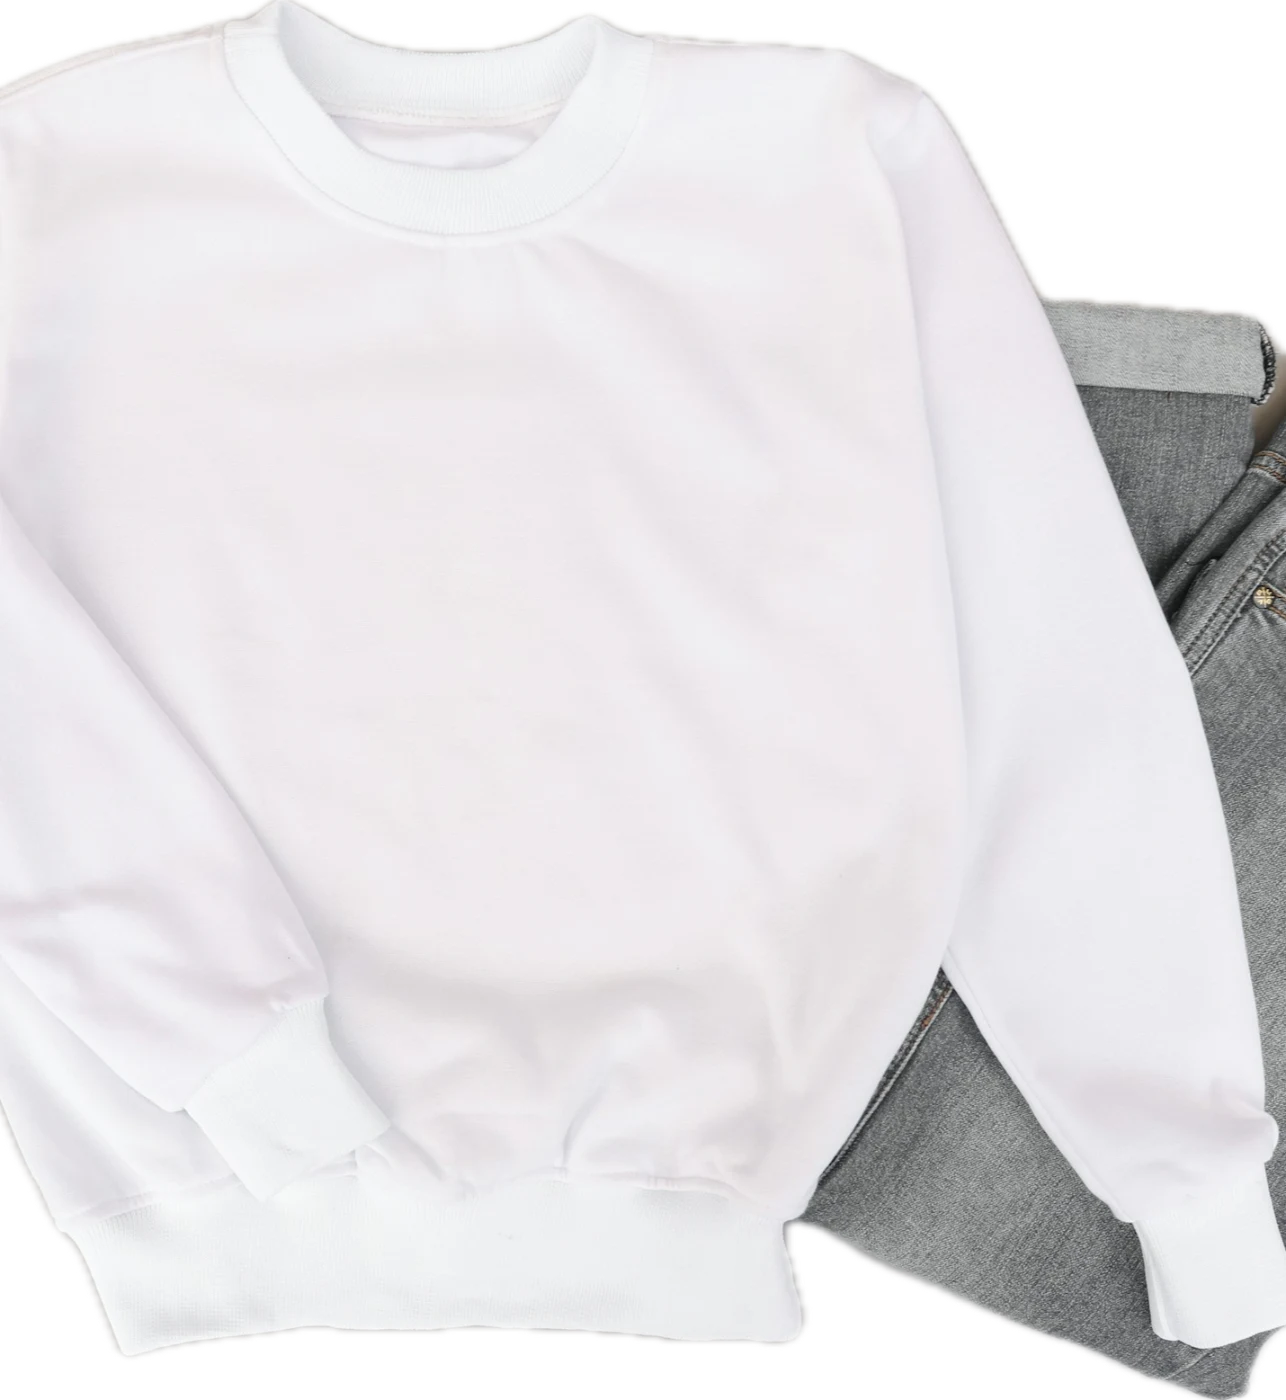
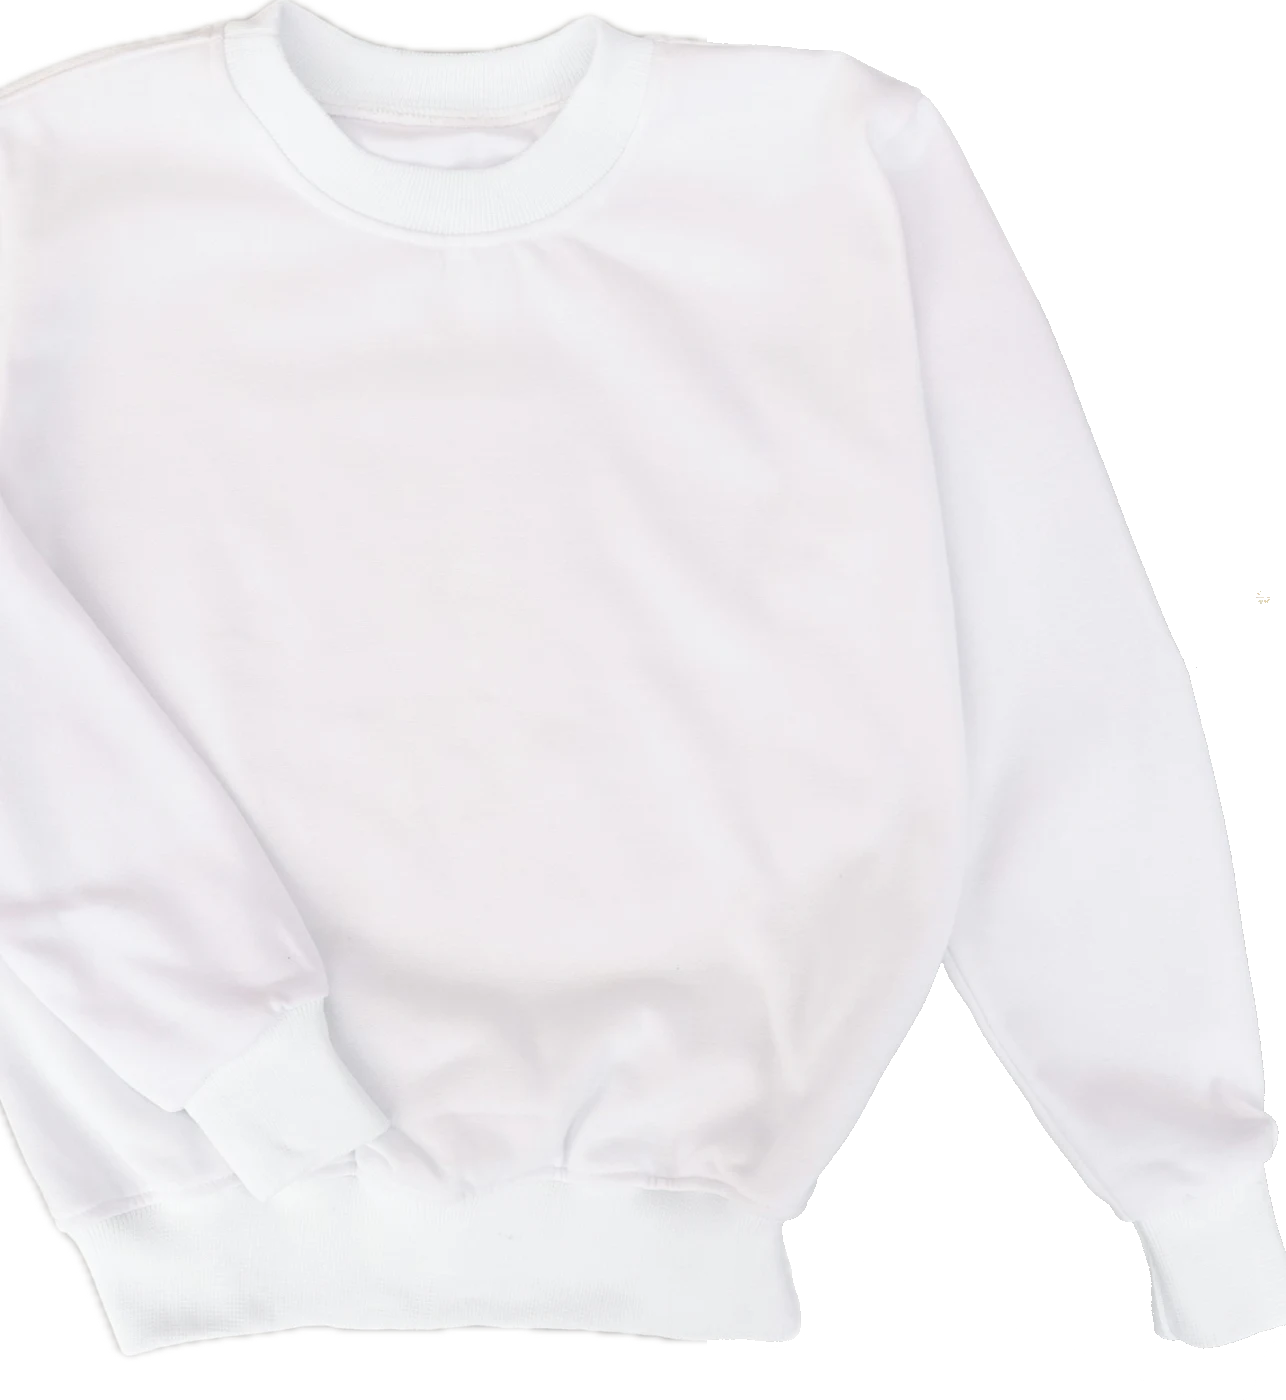
Incluye la foto y su color en las líneas de carrito y pedido
ProductPhotos centraliza cómo se arma la foto de un producto para el catálogo, el carrito y los pedidos. También limpia la foto del buzo blanco.

diff --git a/backend/src/main/java/com/flowstore/backend/order/OrderService.java b/backend/src/main/java/com/flowstore/backend/order/OrderService.java
@@ -3,6 +3,7 @@ package com.flowstore.backend.order;
 import com.flowstore.backend.cart.Cart;
 import com.flowstore.backend.cart.CartItem;
 import com.flowstore.backend.cart.CartRepository;
+import com.flowstore.backend.catalog.ProductPhotos;
 import com.flowstore.backend.catalog.ProductVariant;
 import com.flowstore.backend.payment.Payment;
 import com.flowstore.backend.payment.PaymentRepository;
@@ -39,6 +40,7 @@ public class OrderService {
     private final StockService stockService;
     private final PaymentRepository paymentRepository;
     private final PaymentSimulator paymentSimulator;
+    private final ProductPhotos productPhotos;
     private final Clock clock;
 
     public OrderService(OrderRepository orderRepository,
@@ -48,6 +50,7 @@ public class OrderService {
                         StockService stockService,
                         PaymentRepository paymentRepository,
                         PaymentSimulator paymentSimulator,
+                        ProductPhotos productPhotos,
                         Clock clock) {
         this.orderRepository = orderRepository;
         this.orderItemRepository = orderItemRepository;
@@ -56,6 +59,7 @@ public class OrderService {
         this.stockService = stockService;
         this.paymentRepository = paymentRepository;
         this.paymentSimulator = paymentSimulator;
+        this.productPhotos = productPhotos;
         this.clock = clock;
     }
 
@@ -84,7 +88,7 @@ public class OrderService {
             payment = Payment.rejected(order.getId());
         }
         paymentRepository.save(payment);
-        return toResponse(order, order.getItems(), payment);
+        return toResponse(order, order.getItems(), payment, photosOf(order.getItems()));
     }
 
     @Transactional(readOnly = true)
@@ -93,10 +97,13 @@ public class OrderService {
         List<UUID> orderIds = orders.map(CustomerOrder::getId).getContent();
         Map<UUID, List<OrderItem>> itemsByOrder = itemsOf(orderIds);
         Map<UUID, Payment> paymentsByOrder = paymentsOf(orderIds);
+        Map<UUID, ProductPhotos.Photo> photos = photosOf(
+                itemsByOrder.values().stream().flatMap(List::stream).toList());
         return PageResponse.from(orders.map(order -> toResponse(
                 order,
                 itemsByOrder.getOrDefault(order.getId(), List.of()),
-                paymentsByOrder.get(order.getId()))));
+                paymentsByOrder.get(order.getId()),
+                photos)));
     }
 
     @Transactional(readOnly = true)
@@ -104,10 +111,8 @@ public class OrderService {
         CustomerOrder order = orderRepository.findByIdAndUserId(orderId, userId)
                 .orElseThrow(() -> ApiException.notFound("ORDER_NOT_FOUND"));
         List<UUID> orderIds = List.of(order.getId());
-        return toResponse(
-                order,
-                itemsOf(orderIds).getOrDefault(order.getId(), List.of()),
-                paymentsOf(orderIds).get(order.getId()));
+        List<OrderItem> items = itemsOf(orderIds).getOrDefault(order.getId(), List.of());
+        return toResponse(order, items, paymentsOf(orderIds).get(order.getId()), photosOf(items));
     }
 
     private static ProductVariant requireActive(CartItem item) {
@@ -134,8 +139,17 @@ public class OrderService {
                 .collect(Collectors.toMap(Payment::getOrderId, Function.identity()));
     }
 
-    private static OrderDtos.OrderResponse toResponse(CustomerOrder order, List<OrderItem> items, Payment payment) {
-        List<OrderDtos.OrderLineResponse> lines = items.stream().map(OrderService::toLine).toList();
+    private Map<UUID, ProductPhotos.Photo> photosOf(List<OrderItem> items) {
+        return productPhotos.firstPhotos(
+                items.stream().map(item -> item.getProductVariant().getProduct().getId()).distinct().toList());
+    }
+
+    private static OrderDtos.OrderResponse toResponse(CustomerOrder order, List<OrderItem> items, Payment payment,
+                                                      Map<UUID, ProductPhotos.Photo> photos) {
+        List<OrderDtos.OrderLineResponse> lines = items.stream()
+                .map(item -> toLine(item,
+                        photos.getOrDefault(item.getProductVariant().getProduct().getId(), ProductPhotos.Photo.NONE)))
+                .toList();
         int itemCount = items.stream().mapToInt(OrderItem::getQuantity).sum();
         OrderDtos.PaymentResponse paymentResponse = payment == null
                 ? null
@@ -150,7 +164,7 @@ public class OrderService {
                 paymentResponse);
     }
 
-    private static OrderDtos.OrderLineResponse toLine(OrderItem item) {
+    private static OrderDtos.OrderLineResponse toLine(OrderItem item, ProductPhotos.Photo photo) {
         ProductVariant variant = item.getProductVariant();
         return new OrderDtos.OrderLineResponse(
                 variant.getId(),
@@ -158,7 +172,11 @@ public class OrderService {
                 item.getProductNameSnapshot(),
                 item.getVariantLabelSnapshot(),
                 variant.getProduct().getCategory().getSlug(),
+                variant.getColorName(),
                 variant.getColorHex(),
+                photo.url(),
+                photo.color(),
+                photo.colorHex(),
                 item.getUnitPriceSnapshot(),
                 item.getQuantity(),
                 item.lineTotal());

diff --git a/backend/src/main/java/com/flowstore/backend/catalog/ProductService.java b/backend/src/main/java/com/flowstore/backend/catalog/ProductService.java
@@ -27,19 +27,22 @@ public class ProductService {
     private final CategoryService categoryService;
     private final StockService stockService;
     private final FileStorageService fileStorageService;
+    private final ProductPhotos productPhotos;
 
     public ProductService(ProductRepository productRepository,
                           ProductVariantRepository variantRepository,
                           ProductImageRepository imageRepository,
                           CategoryService categoryService,
                           StockService stockService,
-                          FileStorageService fileStorageService) {
+                          FileStorageService fileStorageService,
+                          ProductPhotos productPhotos) {
         this.productRepository = productRepository;
         this.variantRepository = variantRepository;
         this.imageRepository = imageRepository;
         this.categoryService = categoryService;
         this.stockService = stockService;
         this.fileStorageService = fileStorageService;
+        this.productPhotos = productPhotos;
     }
 
     @Transactional(readOnly = true)
@@ -57,7 +60,7 @@ public class ProductService {
         }
         Page<Product> page = productRepository.findAll(filters, pageable);
         List<UUID> productIds = page.getContent().stream().map(Product::getId).toList();
-        Map<UUID, ProductImage> thumbnails = thumbnailsOf(productIds);
+        Map<UUID, ProductPhotos.Photo> photos = productPhotos.firstPhotos(productIds);
         Map<UUID, Long> stockByProduct = stockService.availabilityByProduct(productIds);
         Map<UUID, List<CatalogDtos.ColorResponse>> colorsByProduct = colorsOf(productIds);
 
@@ -68,8 +71,8 @@ public class ProductService {
                 product.getSlot(),
                 product.getCategory().getSlug(),
                 product.getCategory().getName(),
-                urlOf(thumbnails.get(product.getId())),
-                photoColorOf(thumbnails.get(product.getId())),
+                photos.getOrDefault(product.getId(), ProductPhotos.Photo.NONE).url(),
+                photos.getOrDefault(product.getId(), ProductPhotos.Photo.NONE).color(),
                 stockByProduct.getOrDefault(product.getId(), 0L),
                 colorsByProduct.getOrDefault(product.getId(), List.of()))));
     }
@@ -151,8 +154,10 @@ public class ProductService {
         List<ProductVariant> variants = variantRepository.findByProductIdOrderByColorNameAscSizeAsc(product.getId());
         Map<UUID, Long> stockByVariant = stockService.availabilityByVariant(
                 variants.stream().map(ProductVariant::getId).toList());
-        List<ProductImage> images = imageRepository.findByProductIdOrderByPositionAsc(product.getId());
-        List<String> imageUrls = images.stream().map(this::urlOf).toList();
+        List<ProductPhotos.Photo> images = imageRepository.findByProductIdOrderByPositionAsc(product.getId()).stream()
+                .map(productPhotos::toPhoto)
+                .toList();
+        List<String> imageUrls = images.stream().map(ProductPhotos.Photo::url).toList();
 
         return new CatalogDtos.ProductDetailResponse(
                 product.getId(),
@@ -164,29 +169,10 @@ public class ProductService {
                 product.getCategory().getName(),
                 product.isActive(),
                 imageUrls,
-                images.isEmpty() ? null : photoColorOf(images.getFirst()),
+                images.isEmpty() ? null : images.getFirst().color(),
                 variants.stream()
                         .map(variant -> toVariantResponse(variant, stockByVariant.getOrDefault(variant.getId(), 0L)))
                         .toList());
-    }
-
-    private Map<UUID, ProductImage> thumbnailsOf(List<UUID> productIds) {
-        if (productIds.isEmpty()) {
-            return Map.of();
-        }
-        return imageRepository.findByProductIdInOrderByPositionAsc(productIds).stream()
-                .collect(Collectors.toMap(
-                        image -> image.getProduct().getId(),
-                        image -> image,
-                        (first, ignored) -> first));
-    }
-
-    private String urlOf(ProductImage image) {
-        return image == null ? null : fileStorageService.publicUrl(image.getPath());
-    }
-
-    private static String photoColorOf(ProductImage image) {
-        return image == null ? null : image.photoColor();
     }
 
     private Map<UUID, List<CatalogDtos.ColorResponse>> colorsOf(List<UUID> productIds) {

diff --git a/backend/src/main/java/com/flowstore/backend/cart/CartService.java b/backend/src/main/java/com/flowstore/backend/cart/CartService.java
@@ -1,6 +1,7 @@
 package com.flowstore.backend.cart;
 
 import com.flowstore.backend.catalog.Product;
+import com.flowstore.backend.catalog.ProductPhotos;
 import com.flowstore.backend.catalog.ProductVariant;
 import com.flowstore.backend.catalog.ProductVariantRepository;
 import com.flowstore.backend.shared.ApiException;
@@ -23,15 +24,18 @@ public class CartService {
     private final ProductVariantRepository variantRepository;
     private final UserRepository userRepository;
     private final StockService stockService;
+    private final ProductPhotos productPhotos;
 
     public CartService(CartRepository cartRepository,
                        ProductVariantRepository variantRepository,
                        UserRepository userRepository,
-                       StockService stockService) {
+                       StockService stockService,
+                       ProductPhotos productPhotos) {
         this.cartRepository = cartRepository;
         this.variantRepository = variantRepository;
         this.userRepository = userRepository;
         this.stockService = stockService;
+        this.productPhotos = productPhotos;
     }
 
     @Transactional(readOnly = true)
@@ -96,8 +100,12 @@ public class CartService {
         List<CartItem> items = cart.getItems();
         Map<UUID, Long> stock = stockService.availabilityByVariant(
                 items.stream().map(item -> item.getProductVariant().getId()).toList());
+        Map<UUID, ProductPhotos.Photo> photos = productPhotos.firstPhotos(
+                items.stream().map(item -> item.getProductVariant().getProduct().getId()).distinct().toList());
         List<CartDtos.CartItemResponse> lines = items.stream()
-                .map(item -> toLine(item, stock.getOrDefault(item.getProductVariant().getId(), 0L)))
+                .map(item -> toLine(item,
+                        stock.getOrDefault(item.getProductVariant().getId(), 0L),
+                        photos.getOrDefault(item.getProductVariant().getProduct().getId(), ProductPhotos.Photo.NONE)))
                 .toList();
         BigDecimal subtotal = lines.stream()
                 .map(CartDtos.CartItemResponse::lineTotal)
@@ -106,7 +114,7 @@ public class CartService {
         return new CartDtos.CartResponse(lines, itemCount, subtotal, MAX_UNITS_PER_LINE);
     }
 
-    private static CartDtos.CartItemResponse toLine(CartItem item, long available) {
+    private static CartDtos.CartItemResponse toLine(CartItem item, long available, ProductPhotos.Photo photo) {
         ProductVariant variant = item.getProductVariant();
         Product product = variant.getProduct();
         BigDecimal unitPrice = variant.effectivePrice();
@@ -118,6 +126,9 @@ public class CartService {
                 variant.getSize(),
                 variant.getColorName(),
                 variant.getColorHex(),
+                photo.url(),
+                photo.color(),
+                photo.colorHex(),
                 unitPrice,
                 item.getQuantity(),
                 available,

diff --git a/backend/src/main/java/com/flowstore/backend/catalog/ProductPhotos.java b/backend/src/main/java/com/flowstore/backend/catalog/ProductPhotos.java
@@ -1,0 +1,41 @@
+package com.flowstore.backend.catalog;
+
+import com.flowstore.backend.shared.FileStorageService;
+import org.springframework.stereotype.Component;
+
+import java.util.Collection;
+import java.util.Map;
+import java.util.UUID;
+import java.util.stream.Collectors;
+
+@Component
+public class ProductPhotos {
+
+    private final ProductImageRepository imageRepository;
+    private final FileStorageService fileStorageService;
+
+    public ProductPhotos(ProductImageRepository imageRepository, FileStorageService fileStorageService) {
+        this.imageRepository = imageRepository;
+        this.fileStorageService = fileStorageService;
+    }
+
+    public Map<UUID, Photo> firstPhotos(Collection<UUID> productIds) {
+        if (productIds.isEmpty()) {
+            return Map.of();
+        }
+        return imageRepository.findByProductIdInOrderByPositionAsc(productIds).stream()
+                .collect(Collectors.toMap(
+                        image -> image.getProduct().getId(),
+                        this::toPhoto,
+                        (first, ignored) -> first));
+    }
+
+    public Photo toPhoto(ProductImage image) {
+        return new Photo(fileStorageService.publicUrl(image.getPath()), image.photoColor(), image.photoColorHex());
+    }
+
+    public record Photo(String url, String color, String colorHex) {
+
+        public static final Photo NONE = new Photo(null, null, null);
+    }
+}

diff --git a/backend/src/test/java/com/flowstore/backend/order/OrderServiceTest.java b/backend/src/test/java/com/flowstore/backend/order/OrderServiceTest.java
@@ -5,6 +5,7 @@ import com.flowstore.backend.cart.CartRepository;
 import com.flowstore.backend.catalog.Category;
 import com.flowstore.backend.catalog.EquipSlot;
 import com.flowstore.backend.catalog.Product;
+import com.flowstore.backend.catalog.ProductPhotos;
 import com.flowstore.backend.catalog.ProductVariant;
 import com.flowstore.backend.payment.CardDetails;
 import com.flowstore.backend.payment.Payment;
@@ -67,6 +68,9 @@ class OrderServiceTest {
     @Mock
     private PaymentRepository paymentRepository;
 
+    @Mock
+    private ProductPhotos productPhotos;
+
     private OrderService orderService;
     private UUID userId;
     private User user;
@@ -78,7 +82,7 @@ class OrderServiceTest {
     void setUp() {
         Clock clock = Clock.fixed(Instant.parse("2026-10-17T15:00:00Z"), ZoneId.of("America/Bogota"));
         orderService = new OrderService(orderRepository, orderItemRepository, cartRepository, userRepository,
-                stockService, paymentRepository, new PaymentSimulator(clock), clock);
+                stockService, paymentRepository, new PaymentSimulator(clock), productPhotos, clock);
 
         userId = UUID.randomUUID();
         user = new User("ana@flowstore.app", "hash", "Ana Prueba", UserRole.CUSTOMER);

diff --git a/backend/src/test/java/com/flowstore/backend/cart/CartServiceTest.java b/backend/src/test/java/com/flowstore/backend/cart/CartServiceTest.java
@@ -3,6 +3,7 @@ package com.flowstore.backend.cart;
 import com.flowstore.backend.catalog.Category;
 import com.flowstore.backend.catalog.EquipSlot;
 import com.flowstore.backend.catalog.Product;
+import com.flowstore.backend.catalog.ProductPhotos;
 import com.flowstore.backend.catalog.ProductVariant;
 import com.flowstore.backend.catalog.ProductVariantRepository;
 import com.flowstore.backend.shared.ApiException;
@@ -42,6 +43,9 @@ class CartServiceTest {
     @Mock
     private StockService stockService;
 
+    @Mock
+    private ProductPhotos productPhotos;
+
     private CartService cartService;
     private UUID userId;
     private Cart cart;
@@ -49,7 +53,7 @@ class CartServiceTest {
 
     @BeforeEach
     void setUp() {
-        cartService = new CartService(cartRepository, variantRepository, userRepository, stockService);
+        cartService = new CartService(cartRepository, variantRepository, userRepository, stockService, productPhotos);
         userId = UUID.randomUUID();
         User user = new User("ana@flowstore.app", "hash", "Ana Prueba", UserRole.CUSTOMER);
         cart = new Cart(user);

diff --git a/backend/src/main/java/com/flowstore/backend/order/OrderDtos.java b/backend/src/main/java/com/flowstore/backend/order/OrderDtos.java
@@ -32,7 +32,11 @@ public final class OrderDtos {
             String productName,
             String variantLabel,
             String categorySlug,
+            String colorName,
             String colorHex,
+            String thumbnailUrl,
+            String photoColor,
+            String photoColorHex,
             BigDecimal unitPrice,
             int quantity,
             BigDecimal lineTotal

diff --git a/backend/src/main/java/com/flowstore/backend/cart/CartDtos.java b/backend/src/main/java/com/flowstore/backend/cart/CartDtos.java
@@ -46,6 +46,9 @@ public final class CartDtos {
             String size,
             String colorName,
             String colorHex,
+            String thumbnailUrl,
+            String photoColor,
+            String photoColorHex,
             BigDecimal unitPrice,
             int quantity,
             long available,

diff --git a/backend/src/main/java/com/flowstore/backend/catalog/ProductImage.java b/backend/src/main/java/com/flowstore/backend/catalog/ProductImage.java
@@ -58,6 +58,10 @@ public class ProductImage {
         return variant == null ? null : variant.getColorName();
     }
 
+    public String photoColorHex() {
+        return variant == null ? null : variant.getColorHex();
+    }
+
     public String getPath() {
         return path;
     }
